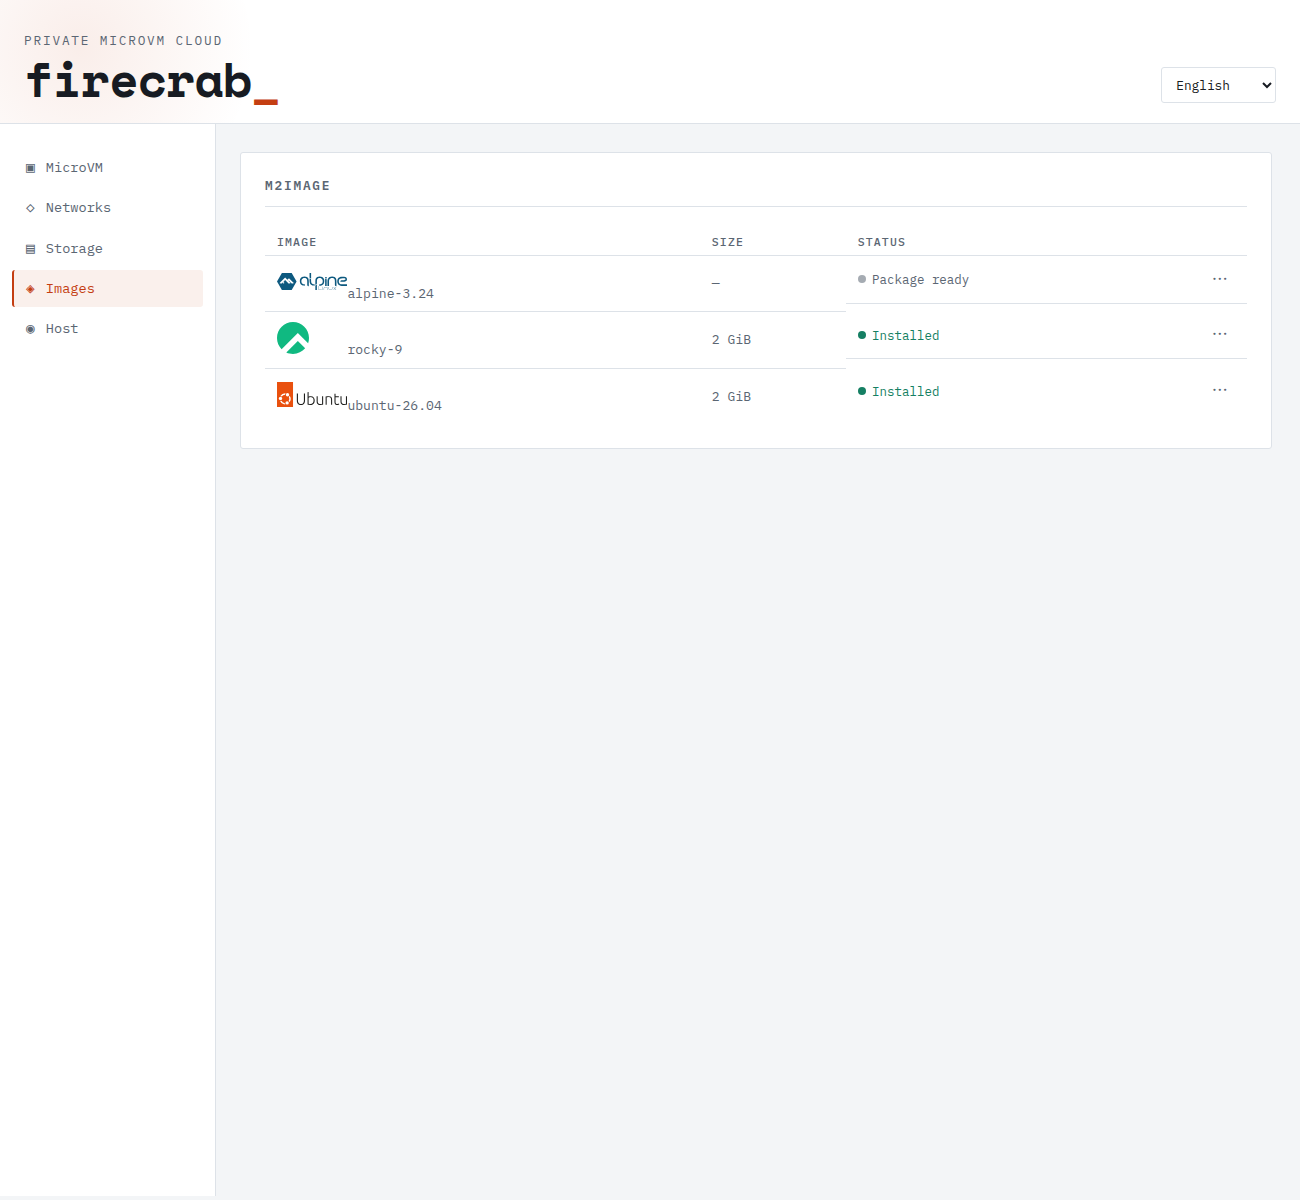
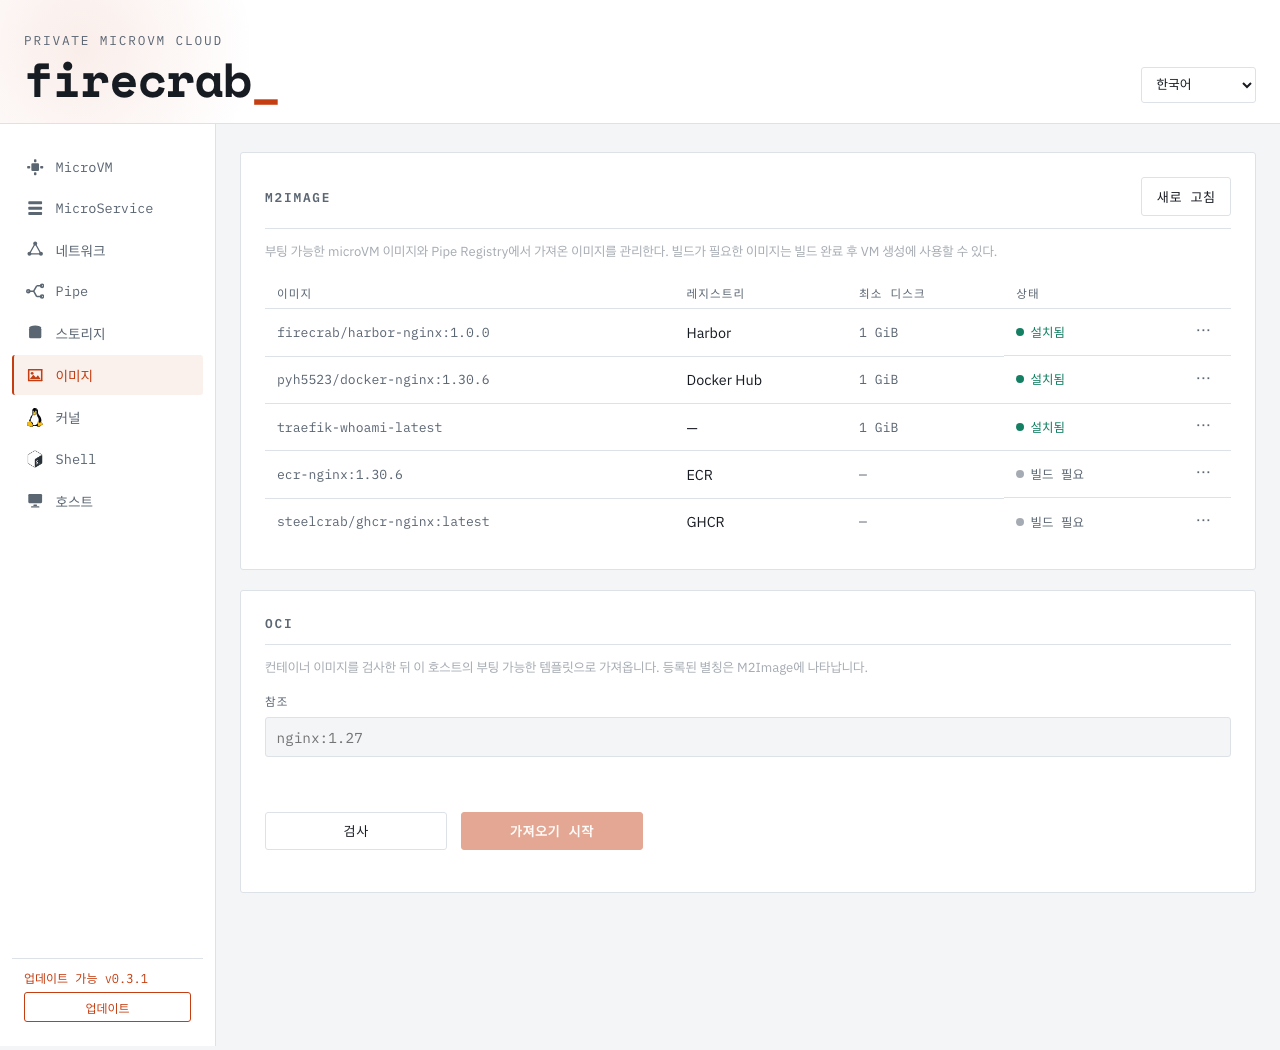
docs(pipe): add registry and M2Image screenshots

diff --git a/public-docs/guides/pipe-registry.md b/public-docs/guides/pipe-registry.md
@@ -77,6 +77,18 @@ scoped to their exact registry, including its port. A custom Harbor hostname mus
 be registered before Pipe accepts its tag queries or pull requests. Pulls verify
 SHA-256 content digests.
 
+## Screenshots
+
+Saved accounts, ECR repositories, and the selected tag's pull status:
+
+![Pipe Registry](../../assets/dashboard/pipe-registry.png)
+
+Installed M2Images and pulled sources waiting for a build:
+
+![M2Image inventory](../../assets/dashboard/images.png)
+
+## API
+
 | Endpoint | Action |
 | --- | --- |
 | `GET /api/pipe/registries` | Saved registry hosts, providers, usernames, and optional ECR `accountName`; no secrets |
